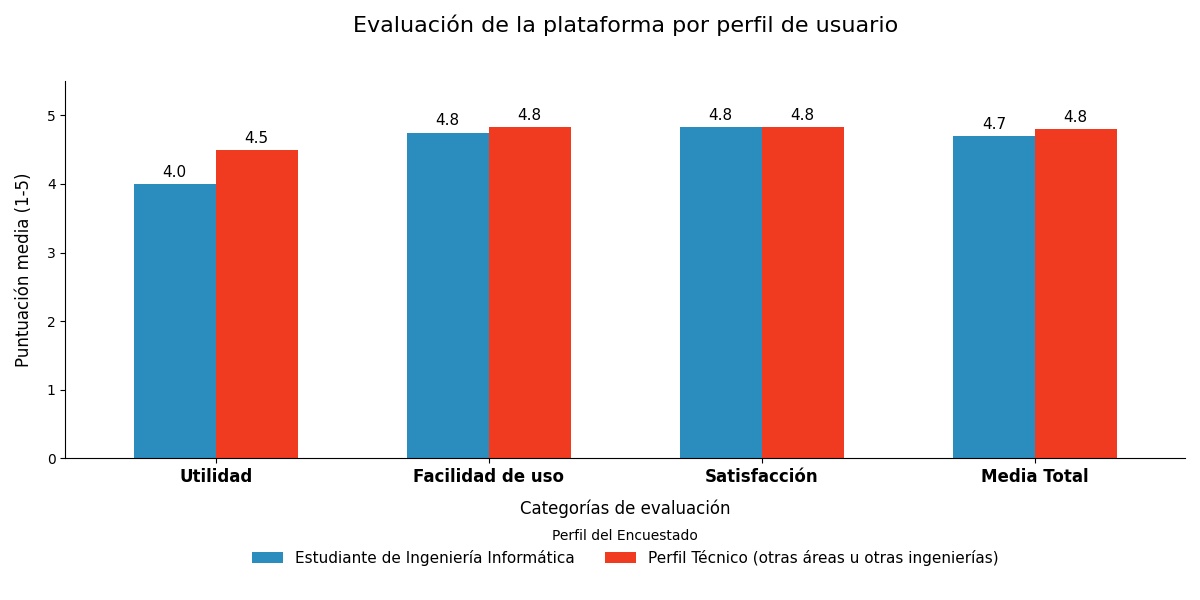
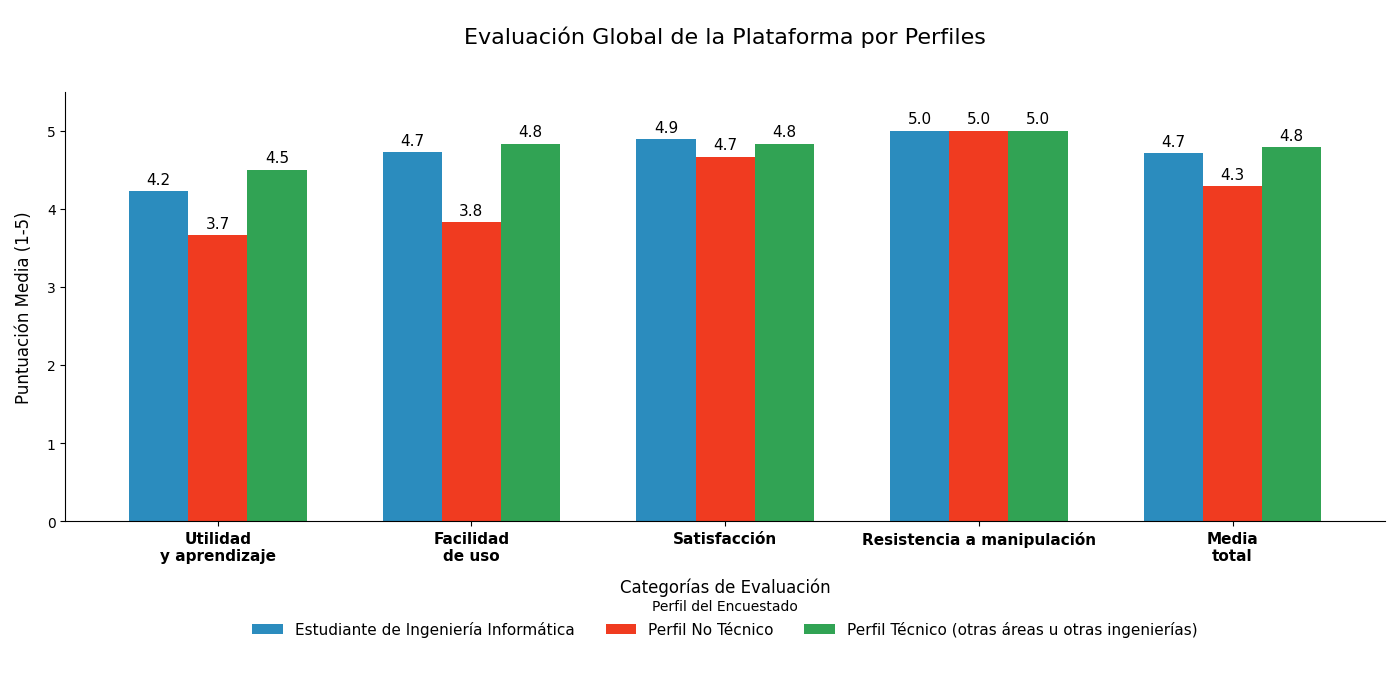
final

diff --git a/docs/estado_arte/sistemas_tutoria.tex b/docs/estado_arte/sistemas_tutoria.tex
@@ -9,7 +9,7 @@ El referente más consolidado es el CS50 Duck, un asistente integrado en el ento
     \includegraphics[width=0.85\textwidth]{./img/CS50-arq.png}
 \end{figure}
 
-Para gestionar los costes de la API comercial, Harvard implementó un sistema de ``corazones'' que limita las consultas de los estudiantes, obteniendo un doble beneficio, por un lado obliga a los estudiantes a reflexionar sobre su pregunta antes de enviarla y por otro evita un elevado coste operativo \cite{liu2024cs50}.
+Para gestionar los costes de la API comercial, Harvard implementó un sistema de <<corazones>> que limita las consultas de los estudiantes, obteniendo un doble beneficio, por un lado obliga a los estudiantes a reflexionar sobre su pregunta antes de enviarla y por otro evita un elevado coste operativo \cite{liu2024cs50}.
 
 \subsubsection{CodeAid}
 \label{sec:codeaid}
@@ -23,9 +23,9 @@ El asistente CodeAid propone un modelo de ayuda estructurada basado en herramien
 \subsubsection{TreeInstruct}
 \label{sec:treeinstruct}
 
-Una de las investigaciones más recientes en este ámbito propone \textit{TreeInstruct}, un \textit{framework} de cuestionamiento guiado por árboles diseñado para el \textit{debugging} educativo \cite{kargupta2024instruct}. A diferencia de las herramientas comerciales anteriores, este modelo se basa en dos agentes que trabajan de forma coordinada. Por un lado hay un Instructor que diseña la secuencia de preguntas y por otro lado un Verificador que analiza si el estudiante realmente está comprendiendo cada paso en tiempo real.
+Una de las investigaciones más recientes en este ámbito propone \textit{TreeInstruct}, un \textit{framework} de cuestionamiento guiado por árboles diseñado para el \textit{debugging} educativo \cite{kargupta2024instruct}. A diferencia de las herramientas comerciales anteriores, este modelo se basa en dos agentes que trabajan de forma coordinada. Por un lado, hay un Instructor que diseña la secuencia de preguntas y por otro lado un Verificador que analiza si el estudiante realmente está comprendiendo cada paso en tiempo real.
 
-Para lograr esto, el \textit{framework} utiliza variables de estado que funcionan como indicadores del nivel de conocimiento alcanzado en cada momento. Estas variables representan hitos específicos como entender el origen de un fallo o ser capaz de proponer una corrección lógica. Al principio de la sesión estas variables se inicializan en falso y según las respuestas del alumno, el agente Verificador va actualizando los indicadores para que el agente Instructor pueda seleccionar las preguntas más adecuadas dentro del árbol de decisión y asegurar así un aprendizaje progresivo. Tal como se detalla en la \autoref{fig:arquitectura_treeinstruct}, esta estructura garantiza que el progreso dependa del dominio real de los conceptos por parte del alumno para fomentar un descubrimiento del error basado en su propio razonamiento lógico \cite{kargupta2024instruct}.
+Para lograr esto, el \textit{framework} utiliza variables de estado que funcionan como indicadores del nivel de conocimiento alcanzado en cada momento. Estas variables representan hitos específicos como entender el origen de un fallo o ser capaz de proponer una corrección lógica. Al principio de la sesión, estas variables se inicializan en falso y según las respuestas del alumno, el agente Verificador va actualizando los indicadores para que el agente Instructor pueda seleccionar las preguntas más adecuadas dentro del árbol de decisión y asegurar así un aprendizaje progresivo. Tal como se detalla en la \autoref{fig:arquitectura_treeinstruct}, esta estructura garantiza que el progreso dependa del dominio real de los conceptos por parte del alumno para fomentar un descubrimiento del error basado en su propio razonamiento lógico \cite{kargupta2024instruct}.
 
 \begin{figure}[Arquitectura del sistema TreeInstruct]{fig:arquitectura_treeinstruct}{Esquema de la arquitectura de TreeInstruct, mostrando la estructura jerárquica de árbol y el flujo de cuestionamiento. Tomado de \cite{kargupta2024instruct}}
     \centering

diff --git a/docs/pruebas/pruebas_automatizadas.tex b/docs/pruebas/pruebas_automatizadas.tex
@@ -1,5 +1,5 @@
-Se desarrolló una suite de pruebas automatizadas que cubre las dos capas principales del sistema.
+Se desarrolló una \textit{suite} de pruebas automatizadas que cubre las dos capas principales del sistema.
 
-Las pruebas del \textit{backend} utilizan \texttt{django.test.TestCase} junto con el cliente \texttt{APIClient} de Django REST Framework. Los flujos asíncronos de \textit{streaming} SSE se cubren con \texttt{AsyncClient}, el cliente asíncrono nativo de Django, y la cobertura se mide con \texttt{coverage.py}. La suite consta de \textbf{105 tests} que verifican la autenticación, el ciclo de vida de las sesiones de chat, el \textit{streaming} del LLM, la moderación dinámica y la integración con Piston. Todos superan satisfactoriamente, alcanzando una cobertura del \textbf{99\,\%}.
+Las pruebas del \textit{backend} utilizan \texttt{django.test.TestCase} junto con el cliente \texttt{APIClient} de Django REST Framework. Los flujos asíncronos de \textit{streaming} SSE se cubren con \texttt{AsyncClient}, el cliente asíncrono nativo de Django, y la cobertura se mide con \texttt{coverage.py}. La \textit{suite} consta de \textbf{105 \textit{tests}} que verifican la autenticación, el ciclo de vida de las sesiones de chat, el \textit{streaming} del LLM, la moderación dinámica y la integración con Piston. Todos superan satisfactoriamente, alcanzando una cobertura del \textbf{99\,\%}.
 
-Las pruebas del \textit{frontend} se ejecutan mediante \textbf{Vitest} en un entorno JSDOM, con \texttt{@vue/test-utils} para el montaje de componentes Vue y \texttt{@pinia/testing} para inyectar estados de \textit{store} controlados. En total se ejecutan \textbf{345 tests}, todos satisfactorios, con una cobertura de sentencias del \textbf{91,6\,\%} global. Las vistas alcanzan el \textbf{93\,\%}, el \textit{sidebar} el \textbf{96\,\%} y los componentes de chat el \textbf{96,7\,\%}. El componente del editor de código se excluyó deliberadamente por su dependencia directa con Monaco~Editor, cuya validación requiere un entorno de navegador real.
+Las pruebas del \textit{frontend} se ejecutan mediante \textbf{Vitest} en un entorno JSDOM, con \texttt{@vue/test-utils} para el montaje de componentes Vue y \texttt{@pinia/testing} para inyectar estados de \textit{store} controlados. En total se ejecutan \textbf{345 \textit{tests}}, todos satisfactorios, con una cobertura de sentencias del \textbf{91,6\,\%} global. Las vistas alcanzan el \textbf{93\,\%}, el \textit{sidebar} el \textbf{96\,\%} y los componentes de chat el \textbf{96,7\,\%}. El componente del editor de código se excluyó deliberadamente por su dependencia directa con Monaco~Editor, cuya validación requiere un entorno de navegador real.

diff --git a/docs/apendices/diagramas.tex b/docs/apendices/diagramas.tex
@@ -66,7 +66,7 @@ Este apéndice recoge los diagramas de secuencia de los tres casos de uso princi
   \rowcolor{ulepsbased}
   \textbf{Flujo principal:} \newline
   1. El usuario accede a la vista de registro. \newline
-  2. Introduce nombre de usuario, email, y repite dos veces una contraseña segura. \newline
+  2. Introduce nombre de usuario, correo electrónico, y repite dos veces una contraseña segura. \newline
   3. Pulsa el botón "Registrarse". \newline
   4. El sistema valida el formato del email y la seguridad de la contraseña (longitud mínima, caracteres alfanuméricos). \newline
   5. El sistema verifica que el nombre de usuario y el email no estén duplicados en la base de datos. \newline
@@ -535,7 +535,7 @@ Este apéndice recoge los diagramas de secuencia de los tres casos de uso princi
   \rowcolor{ulepsbased}
   \textbf{Flujo principal:} \newline
   1. El usuario hace clic en el botón de eliminar (ícono de papelera) junto a una sesión en el panel lateral. \newline
-  2. El frontend muestra un cuadro de diálogo de confirmación (¿Eliminar esta conversación? Esta acción no se puede deshacer.). \newline
+  2. El frontend muestra un cuadro de diálogo de confirmación \textit{«¿Eliminar esta conversación? Esta acción no se puede deshacer.»}. \newline
   3. El usuario confirma la eliminación. \newline
   4. La interfaz envía una solicitud HTTP DELETE al backend. \newline
   5. El sistema verifica la propiedad y borra el registro de la sesión y, en cascada, todos sus mensajes asociados en la base de datos. \newline

diff --git a/docs/estado_arte/apis_vs_local.tex b/docs/estado_arte/apis_vs_local.tex
@@ -1,5 +1,5 @@
 Las soluciones basadas en APIs comerciales como las de OpenAI o Anthropic ofrecen una gran potencia con una inversión inicial casi nula, pero introducen riesgos importantes en lo que respecta a la privacidad y los costes a largo plazo. Uno de los principales inconvenientes es que el envío de datos sensibles de los alumnos a servidores externos puede comprometer la seguridad de la información y dificultar el cumplimiento de normativas estrictas como el GDPR \cite{wada2025retrieval}.
 
-Las APIs funcionan mediante el pago por tokens y esto suele disparar los costes operativos de forma impredecible cuando hay muchos usuarios conectados simultáneamente, lo cual resulta inasumible en entornos educativos con presupuestos limitados. Aunque montar un servidor propio requiere comprar \textit{hardware} de antemano, esta opción permite un equilibrio financiero donde los costes iniciales serán significativamente más altos, pero predecibles. Investigaciones recientes sitúan el umbral de rentabilidad o \textit{break-even point} en un volumen aproximado de entre 1,5 y 2 millones de tokens diarios ya que a partir de ese nivel de uso la infraestructura propia compensa el gasto acumulado en cuotas de suscripción externa \cite{pan2025cost}. Alcanzar estas cifras no es raro en el ámbito académico, aún sin un uso intensivo. Esta estrategia permite rentabilizar la inversión inicial y al mismo tiempo asegura la soberanía tecnológica de la institución al no depender de proveedores externos que puedan modificar de manera unilateral sus términos de uso o condiciones de servicio.
+Las APIs funcionan mediante el pago por tokens, y esto suele disparar los costes operativos de forma impredecible cuando hay muchos usuarios conectados simultáneamente, lo cual resulta inasumible en entornos educativos con presupuestos limitados. Aunque montar un servidor propio requiere comprar \textit{hardware} de antemano, esta opción ofrece un modelo de costes predecibles, la inversión inicial es significativamente más alta, pero controlable. Investigaciones recientes sitúan el umbral de rentabilidad o \textit{break-even point} en un volumen aproximado de entre 1,5 y 2 millones de tokens diarios, ya que a partir de ese nivel de uso la infraestructura propia compensa el gasto acumulado en cuotas de suscripción externa \cite{pan2025cost}. Alcanzar estas cifras no es raro en el ámbito académico, incluso sin un uso intensivo. Esta estrategia permite rentabilizar la inversión inicial y al mismo tiempo asegura la soberanía tecnológica de la institución al no depender de proveedores externos que puedan modificar de manera unilateral sus términos de uso o condiciones de servicio.
 
-Si bien es cierto que igualar la capacidad de razonamiento de un modelo comercial masivo mediante una infraestructura local es una tarea compleja, un tutor socrático orientado a estudiantes principiantes de ingeniería informática no requiere tal nivel de sofisticación. En este escenario el diseño de la plataforma debe priorizar la privacidad y el control sobre los datos del alumnado por encima de una potencia de procesamiento que no llegaría a ser aprovechada en su totalidad.
+Si bien es cierto que igualar la capacidad de razonamiento de un modelo comercial masivo mediante una infraestructura local es una tarea compleja, un tutor socrático orientado a estudiantes principiantes de ingeniería informática no requiere tal nivel de sofisticación. En este escenario, el diseño de la plataforma debe priorizar la privacidad y el control sobre los datos del alumnado por encima de una potencia de procesamiento que no llegaría a ser aprovechada en su totalidad.

diff --git a/docs/inicio/resumen.tex b/docs/inicio/resumen.tex
@@ -1,6 +1,6 @@
-La irrupción de la inteligencia artificial generativa en el ámbito educativo plantea una paradoja, las herramientas son capaces de resolver en segundos los ejercicios que los estudiantes de programación deben aprender a resolver por sí mismos. Prohibirlas resulta contraproducente en un contexto en el que su uso profesional es ya inevitable, y permitirlas sin control conduce al aprendizaje pasivo y a la dependencia cognitiva.
+La irrupción de la inteligencia artificial generativa en el ámbito educativo plantea una paradoja: las herramientas son capaces de resolver en segundos los ejercicios que los estudiantes de programación deben aprender a resolver por sí mismos. Prohibirlas resulta contraproducente en un contexto en el que su uso profesional es ya inevitable, y permitirlas sin control conduce al aprendizaje pasivo y a la dependencia cognitiva.
 
-Este Trabajo Fin de Grado presenta \textbf{SocratiCode}, una plataforma web de tutoría de programación que propone una tercera vía. En lugar de generar la solución, el sistema emplea un modelo de lenguaje local instruido mediante \textit{prompt engineering} para actuar como tutor socrático. Este, guía al alumno con preguntas que le llevan a descubrir el error y la solución por sí mismo, y se niega explícitamente a proporcionar código corregido bajo cualquier circunstancia.
+Este Trabajo Fin de Grado presenta \textbf{SocratiCode}, una plataforma web de tutoría de programación que propone una tercera vía. En lugar de generar la solución, el sistema emplea un modelo de lenguaje local instruido mediante \textit{prompt engineering} para actuar como tutor socrático. Este guía al alumno con preguntas que le llevan a descubrir el error y la solución por sí mismo, y se niega explícitamente a proporcionar código corregido bajo cualquier circunstancia.
 
 La plataforma integra un editor de código con ejecución en un entorno aislado, un canal de comunicación en tiempo real basado en \textit{Server-Sent Events} y un sistema de moderación dual que protege el entorno educativo. Al operar íntegramente en local, no depende de APIs comerciales ni expone datos académicos a terceros.
 

diff --git a/docs/analisis_diseno/casos_uso.tex b/docs/analisis_diseno/casos_uso.tex
@@ -147,7 +147,7 @@ Los casos de uso expuestos en esta sección conforman los pilares de la aplicaci
   \rowcolor{ulepsbased}
   \textbf{Flujo principal:} \newline
   1. El alumno pulsa el botón ``Ejecutar'' en el editor con código en el editor y el lenguaje seleccionado.\newline
-  2. El sistema valida los datos de entrada .\newline
+  2. El sistema valida los datos de entrada.\newline
   3. El sistema construye el payload y lo envía a la API de Piston.\newline
   4. Piston ejecuta el código en un sub-contenedor aislado (compila primero si es necesario).\newline
   5. Piston devuelve la respuesta JSON con \texttt{stdout}, \texttt{stderr} y \texttt{exit\_code}.\newline

diff --git a/docs/analisis_diseno/metodologia.tex b/docs/analisis_diseno/metodologia.tex
@@ -4,4 +4,4 @@ En una primera fase, el objetivo principal fue el diseño y construcción de un 
 
 A partir de este MVP, el ciclo de vida del proyecto se estructuró en iteraciones cortas o \textit{sprints}. Cada \textit{sprint} comprendía un ciclo completo de análisis de requisitos, diseño técnico, implementación y pruebas de las funcionalidades seleccionadas, como la implementación del entorno seguro (\textit{sandbox}), la creación del panel de configuración de modelos, o la introducción del flujo asíncrono de moderación. Al finalizar cada ciclo, el sistema se encontraba en un estado estable y desplegable.
 
-Para garantizar la calidad técnica y la adecuación a los objetivos pedagógicos, se establecieron reuniones periódicas de seguimiento con el tutor del proyecto. Durante las mismas, se demostraban los avances del \textit{sprint} finalizado, se analizaban los bloqueos técnicos encontrados y, fundamentalmente, se validaban las decisiones arquitectónicas antes de avanzar a la siguiente fase. Esta retroalimentación constante ha sido indispensable para afinar el comportamiento del tutor socrático y asegurar que el sistema evolucionara alineado con las expectativas académicas y de seguridad planteadas.
+Para garantizar la calidad técnica y la adecuación a los objetivos pedagógicos, se establecieron reuniones periódicas de seguimiento con el tutor del proyecto. En dichas reuniones, se demostraban los avances del \textit{sprint} finalizado, se analizaban los bloqueos técnicos encontrados y, fundamentalmente, se validaban las decisiones arquitectónicas antes de avanzar a la siguiente fase. Esta retroalimentación constante ha sido indispensable para afinar el comportamiento del tutor socrático y asegurar que el sistema evolucionara alineado con las expectativas académicas y de seguridad planteadas.

diff --git a/docs/analisis_diseno/requisitos.tex b/docs/analisis_diseno/requisitos.tex
@@ -1,1 +1,1 @@
-Teniendo en cuenta la descripción del sistema, se plantean los requisitos a satisfacer por parte de la aplicación. Estos constituyen la base sobre la cual se desarrolla el sistema y permiten definir de manera clara qué funcionalidades se esperan y qué condiciones deben cumplir. Bajo esta premisa se diferencian los requisitos funcionales que detallan las operativas disponibles para los usuarios, como la interacción con el tutor socrático, la moderación con IA y la ejecución de código. Por su parte, los requisitos no funcionales establecen las restricciones técnicas, de seguridad y de rendimiento exigidas a la arquitectura.
+Teniendo en cuenta la descripción del sistema, se plantean los requisitos a satisfacer por parte de la aplicación. Estos constituyen la base sobre la cual se desarrolla el sistema y permiten definir de manera clara qué funcionalidades se esperan y qué condiciones deben cumplir. Bajo esta premisa se diferencian los requisitos funcionales, que detallan las operativas disponibles para los usuarios, como la interacción con el tutor socrático, la moderación con IA y la ejecución de código. Por su parte, los requisitos no funcionales establecen las restricciones técnicas, de seguridad y de rendimiento exigidas a la arquitectura.

diff --git a/docs/estado_arte/comparativa_socraticode.tex b/docs/estado_arte/comparativa_socraticode.tex
@@ -1,3 +1,3 @@
-Tras analizar las propuestas más relevantes del estado del arte, se evidencia que las soluciones actuales para la tutorización asistida por IA presentan limitaciones prácticas asociadas a su arquitectura, viabilidad económica y dependencia de herramientas externas. Para solventar estas deficiencias, el presente Trabajo de Fin de Grado propone SocratiCode, una plataforma integral que basa su motor de inferencia exclusivamente en modelos de lenguaje de ejecución local. Esta decisión garantiza la soberanía y privacidad de los datos del alumnado y elimina los costes recurrentes por consumo de tokens de APIs comerciales (como OpenAI), permitiendo un volumen de interacciones ilimitado, en contraste con sistemas como CS50 Duck, que deben racionar las consultas de los estudiantes \cite{liu2024cs50}. Además, a diferencia de CodeAid y al igual que CS50 Duck, SocratiCode incorpora un editor de código nativo con ejecución en tiempo real, lo que dota al agente tutor de un contexto absoluto al analizar conjuntamente la consulta, el código fuente y la traza exacta de la última ejecución. Este posicionamiento no solo es técnicamente diferencial, sino que resulta especialmente relevante para contextos educativos institucionales donde la privacidad de los alumnos y la sostenibilidad económica son condiciones no negociables.
+Tras analizar las propuestas más relevantes del estado del arte, se evidencia que las soluciones actuales para la tutorización asistida por IA presentan limitaciones prácticas asociadas a su arquitectura, viabilidad económica y dependencia de herramientas externas. Para solventar estas deficiencias, el presente Trabajo de Fin de Grado propone SocratiCode, una plataforma integral que basa su motor de inferencia exclusivamente en modelos de lenguaje de ejecución local. Esta decisión garantiza la soberanía y privacidad de los datos del alumnado y elimina los costes recurrentes por consumo de tokens de APIs comerciales (como OpenAI), permitiendo un volumen de interacciones ilimitado, en contraste con sistemas como CS50 Duck, que deben racionar las consultas de los estudiantes \cite{liu2024cs50}. Además, a diferencia de CodeAid y al igual que CS50 Duck, SocratiCode incorpora un editor de código nativo con ejecución en tiempo real, lo que dota al agente tutor de un contexto absoluto al analizar conjuntamente la consulta, el código fuente y la traza exacta de la última ejecución. Este posicionamiento no solo es técnicamente diferencial, sino que resulta especialmente relevante para contextos educativos institucionales, donde la privacidad de los alumnos y la sostenibilidad económica son condiciones no negociables.
 
 A nivel pedagógico y de seguridad, la plataforma optimiza los enfoques previos mediante un agente único altamente instruido a través de su \textit{system prompt}, el cual, tal y como propone TreeInstruct, utiliza una evaluación interna para determinar el nivel de conocimiento del alumno y aplicar condiciones de parada explícitas cuando este ha comprendido la lección. Sumado a lo anterior, SocratiCode implementa técnicas de \textit{few-shot prompting} para guiar al modelo en sus respuestas y evitar que entregue las soluciones directamente. Finalmente, a diferencia de herramientas como CS50 Duck, que centran su seguridad exclusivamente en el filtrado de la entrada, el sistema garantiza un entorno robusto mediante una moderación dual estricta que no solo bloquea ataques del usuario, sino que también interrumpe respuestas inadecuadas del LLM en tiempo real.

diff --git a/docs/estado_arte/llms.tex b/docs/estado_arte/llms.tex
@@ -1,1 +1,1 @@
-La integración de la inteligencia artificial en entornos educativos no es solo una cuestión de pedagogía sino también de infraestructura. A la hora de integrar un modelo de lenguaje como motor cognitivo surge el dilema de si es mejor alquilar ese servicio a empresas externas o si resulta más conveniente hospedar el modelo en servidores propios para mantener el control absoluto sobre el sistema.
+La integración de la inteligencia artificial en entornos educativos no es solo una cuestión de pedagogía, sino también de infraestructura. A la hora de integrar un modelo de lenguaje como motor cognitivo, surge el dilema de si es mejor alquilar ese servicio a empresas externas o si resulta más conveniente hospedar el modelo en servidores propios para mantener el control absoluto sobre el sistema.

diff --git a/docs/estado_arte/optimizacion_modelos.tex b/docs/estado_arte/optimizacion_modelos.tex
@@ -1,4 +1,4 @@
-El principal limitador técnico para el despliegue de estos sistemas en servidores propios es el consumo de la memoria de vídeo o VRAM de la tarjeta gráfica. Cada parámetro del modelo debe cargarse en este espacio para que la generación de texto sea rápida y eficiente. Por defecto los modelos se entrenan con una precisión de 16 bits lo cual implica que una arquitectura de pocos parámetros puede requerir una cantidad de memoria inasumible para \textit{hardware} de rango medio. 
+El principal limitador técnico para el despliegue de estos sistemas en servidores propios es el consumo de la memoria de vídeo o VRAM de la tarjeta gráfica. Cada parámetro del modelo debe cargarse en este espacio para que la generación de texto sea rápida y eficiente. Por defecto los modelos se entrenan con una precisión de 16 bits, lo cual implica que una arquitectura de pocos parámetros puede requerir una cantidad de memoria inasumible para \textit{hardware} de rango medio. 
 
 Para superar las limitaciones de \textit{hardware}, se han implementado diversas estrategias de optimización que actúan sobre la arquitectura y la representación de los datos. La optimización técnica comienza con los formatos de precisión que determinan cuántos bits utiliza el \textit{hardware} para representar cada decimal de la arquitectura. Al pasar de estándares de dieciséis bits a otros más reducidos como el FP8 se ahorra espacio de forma nativa sin perder apenas precisión \cite{micikevicius2017mixed}. Este método se refuerza con la cuantización de parámetros, la cual actúa como una compresión matemática mucho más agresiva mediante la discretización de los pesos y su mapeo sistemático hacia un dominio numérico finito \cite{yadav2025optimizing}. Mientras los formatos de precisión reducen el tamaño estructural del contenedor, la cuantización redefine el contenido para garantizar que un modelo de gran escala quepa en la VRAM de una tarjeta gráfica doméstica.
 

diff --git a/docs/introduccion/motivacion.tex b/docs/introduccion/motivacion.tex
@@ -1,6 +1,6 @@
 En los últimos años, la inteligencia artificial ha evolucionado hasta alcanzar la capacidad de generar, testear y ejecutar código con una competencia equiparable a la de un ingeniero cualificado. No obstante, continúa siendo una herramienta que requiere de un usuario capaz de guiarla y supervisar sus resultados. Un estudiante que se inicia en la programación carece de dichas facultades analíticas, sin embargo, tiene a su disposición una tecnología capaz de resolver, en cuestión de segundos, los retos iniciales inherentes al aprendizaje del desarrollo de software.
 
-La prohibición del uso de estas herramientas en el ámbito académico puede resultar contraproducente, puesto que el aprendizaje de la programación puede generar altos niveles de frustración en principiantes. Esta situación conlleva el riesgo de que el alumnado abandone el estudio o recurra a soluciones automatizadas que impidan el desarrollo del pensamiento computacional, facultad indispensable para establecer los fundamentos técnicos que posteriormente, permitirán aprovechar todo el potencial de estas tecnologías avanzadas de manera eficaz.
+La prohibición del uso de estas herramientas en el ámbito académico puede resultar contraproducente, puesto que el aprendizaje de la programación puede generar altos niveles de frustración en principiantes. Esta situación conlleva el riesgo de que el alumnado abandone el estudio o recurra a soluciones automatizadas que impidan el desarrollo del pensamiento computacional, facultad indispensable para establecer los fundamentos técnicos que posteriormente permitirán aprovechar todo el potencial de estas tecnologías avanzadas de manera eficaz.
 
 Ante este nuevo paradigma, el enfoque del programador profesional no debe residir exclusivamente en la sintaxis de los diversos lenguajes de programación. Por el contrario, el valor diferencial se desplaza hacia el diseño de sistemas, la descomposición modular en subtareas para su implementación y la selección estratégica de las herramientas y tecnologías más adecuadas para cada requerimiento técnico.
 